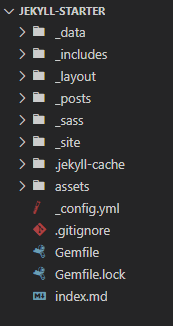
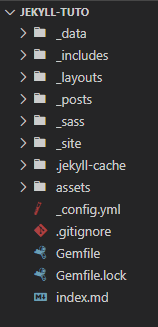
5 first tuto pages ok

diff --git a/_tutoriels/tuto4-layout.md b/_tutoriels/tuto4-layout.md
@@ -2,27 +2,47 @@
 layout: tutoriels
 title: Les layout
 ---
-# Créer son layout par défaut
+# Les layouts
 
-Dans votre dossier `_layout`, créez un fichier HTML que nous appellerons ici "default" (par défaut, en anglais) : `default.html`.
-Ce fichier nous permet de créer la **structure** de notre site, c'est pourquoi il est en HTML. Le contenu sera stocké dans des fichiers Markdown.
+Souvenez-vous, on a dit que Jekyll fonctionnait sur le principe de séparation du contenu et de la structure. Les layout sont du côté structure de la force ! Ce sont des fichiers HTML qui contiennent la structure des pages de votre site. 
 
-Le layout "default" contient les éléments de structure communs à toutes les pages de votre site (par exemple, le doctype, les scripts Bootstrap, etc.). 
+"Donc, j'ai trois pages dans mon site : l'accueil, les articles, à propos, j'aurai trois layouts ?". On pourrait. Mais, avouez-le, ce ne serait pas vraiment DRY tout cela. Dans chaque layout, il y a forcément quelques éléments répétés, à minima le doctype. Il vaut mieux donc créer un layout de base avec tous ces éléments communs :
 
-*insérer image doctype*
-On remarque que le lien interne pour le fichier style est un peu différent de ce que l'on a l'habitude de voir. En effet, pour pouvoir publier votre site sur Github Pages, vous devez utiliser des adresses relatives (relative url) pour vos liens internes, afin d'indiquer le chemin complet de vos différents fichiers. 
-Vous devez donc indiquer vos liens internes (vers vos images, vos scripts js, votre css...) ainsi :
-`<a href="{{ '/assets/css/styles.css' | relative_url }}">`
+[![code layout de base]({{ '/assets/images/capture_layoutbase.png' | relative_url }})]({{ '/assets/images/capture_layoutbase.png' | relative_url }})
 
-Et pour que Jekyll sache à quoi corresponde ce mystérieux "relative-url", il faut l'indiquer dans votre fichier `_config.ym` : 
-``` 
-baseurl: /nom-repository
-```  
+On remarque plusieurs choses ici :
 
-Par exemple, pour créer ce site, nous avons indiqué `baseurl: /jekyll-starter`.
+- Le lien interne pour le fichier style est un peu différent de ce que l'on a l'habitude de voir. En effet, pour pouvoir publier votre site sur Github Pages, vous devez utiliser des adresses relatives (relative url) pour vos liens internes, afin d'indiquer le chemin complet de vos différents fichiers. Vous devez donc indiquer vos liens internes (vers vos images, vos scripts js, votre css...) ainsi : 
 
-Oui, bon, c'est bien beau tout ça, mais comment je fais pour mettre du contenu dans mon site ???
+[![lien vers le fichier style]({{ '/assets/images/capture_relativeurl.png' | relative_url }})]({{ '/assets/images/capture_relativeurl.png' | relative_url }})
 
-Pas de panique Monique, Jekyll a tout prévu, il suffit d'ajouter {{ content }} là où vous souhaitez insérer du contenu (contenu qui sera récupéré... dans un fichier Markdown... Sorcellerie !).
+Et pour que Jekyll sache à quoi corresponde ce mystérieux "relative-url", il faut l'indiquer dans votre fichier `_config.ym` : `baseurl: /nom-repository`. Par exemple, pour créer ce site, nous avons indiqué :
 
-ajouter possibilité de faire des layout dans les layouts
+[![fichier config, base url]({{ '/assets/images/capture_configurl.png' | relative_url }})]({{ '/assets/images/capture_configurl.png' | relative_url }})
+
+
+- On remarque une seconde nouveauté :
+
+[![content]({{ '/assets/images/capture_content.png' | relative_url }})]({{ '/assets/images/capture_content.png' | relative_url }})
+
+Comme son nom l'indique, la balise `content` (contenu en français) permet d'indiquer où vous souhaitez insérer votre contenu dans cette page. Quand Jekyll compilera vos fichiers Markdown dans lesquels le layout de base est indiqué, le contenu prendra la place de cette balise. 
+
+Prenons un exemple. Voici à quoi peut ressembler le contenu de votre index (fichier Markdown, donc) :
+
+[![index]({{ '/assets/images/capture_index.png' | relative_url }})]({{ '/assets/images/capture_index.png' | relative_url }})
+
+Le layout de base est bien indiqué. Je lance le serveur pour que Jekyll compile ces fichiers. Dans le dossier `_site`, vous trouverez votre index compilé par Jekyll. Il s'est transformé en fichier HTML et a appliqué le layout `base` à votre contenu ! Magie !
+
+[![index compilé]({{ '/assets/images/capture_indexcompile.png' | relative_url }})]({{ '/assets/images/capture_indexcompile.png' | relative_url }})
+
+Vous pouvez utiliser des layouts dans les layouts (Inception !). Par exemple, pour notre site Jekyll, nous avons trois layouts :
+- le layout `base` (doctype, scripts, barre de navigation et footer).
+- le layout `default`, qui applique le layout base, mais ajoute dans le body une div dans laquelle s'insère le contenu :
+
+[![layout default]({{ '/assets/images/capture_layoutdefault.png' | relative_url }})]({{ '/assets/images/capture_layoutdefault.png' | relative_url }})
+
+- le layout `tutoriels`, qui applique le layout base, mais ajoute la div du body et le menu de navigation à droite :
+
+[![layout tutoriels]({{ '/assets/images/capture_layouttuto.png' | relative_url }})]({{ '/assets/images/capture_layouttuto.png' | relative_url }})
+
+Nous utilisons donc le layout `base` dans nos deux autres fichiers de layout. Dans les pages de notre site, nous utilisons soit le layout `tutoriels` (pour les pages du tutoriel), soit le layout `default` (pour les autres pages.)

diff --git a/_tutoriels/tuto5-includes.md b/_tutoriels/tuto5-includes.md
@@ -3,8 +3,42 @@ layout: default
 title: Les includes
 ---
 # Les includes
-Le but de Jekyll, souvenez-vous, c'est de séparer le maximum de responsabilités dans votre code. Il sépare donc le contenu de la structure, mais, au sein de la structure, on peut encore faire des séparations, et avoir un fichier HTML pour la structure du footer, un autre pour la structure de la barre de navigation, etc. Cela nous permet de retoucher plus facilement notre code (plus besoin de scroller pour retrouver quelques lignes de codes bien précises !).
+Le but de Jekyll, souvenez-vous, c'est de séparer le maximum de responsabilités dans votre code. Il sépare donc le contenu de la structure, mais, au sein de la structure, on peut encore faire des séparations, et avoir un fichier HTML pour la structure du footer, un autre pour la structure de la barre de navigation, etc. C'est un peu comme une recette : pour réaliser une pâte à crêpes, vous avez besoin d'oeufs, de farine, de bières (si si, c'est meilleur) et de lait. Chaque ingrédient correspond à un include : vous les ajouter au besoin pour réaliser votre recette. 
 
-Pour stocker ces bouts de code, utilisez votre dossier `_includes`. Vous pourrez ensuite les utiliser avec la commande Liquid suivante :
-Par exemple, sur ce site, nous avons dans notre arborescence les includes suivants :
-*insérer capture d'écran*.
+Les includes nous permettent de retoucher plus facilement notre code (plus besoin de scroller pendant des heures pour retrouver quelques lignes de codes bien précises !). De la même façon, si je veux changer de farine dans ma recette, je vais aller directement voir mon pot de farine dans mon placard (essayez de retrouvez votre farine mélangée dans votre pâte sinon !).
+
+Pour stocker ces bouts de code, utilisez votre placard à includes ! Le dossier `_includes`. Pour notre site, nous avons les includes suivants :
+
+[![dossier includes]({{ '/assets/images/capture_dossierincludes.png' | relative_url }})]({{ '/assets/images/capture_dossierincludes.png' | relative_url }})
+
+Vous pouvez remarquer qu'en plus de nos fichiers HTML, nous avons deux fichiers svg. Nous avons fait ce choix pour deux raisons :
+- Pour gagner de la place dans nos layouts (les fichiers svg ont tendance à s'étendre sur des lignes... et des lignes... et des lignes... et des lignes... );
+- Pour éviter de les manipuler par erreur quand on retouche nos layouts (une virgule mal placée et votre logo disparaît, et vous mettez des heures... et des heures... et des heures... et des heures... à trouver d'où vient l'erreur !).
+
+Ok, mais comment je fais pour assembler tout ça moi ? Ou pour dire que je veux tel include à tel endroit ? 
+
+Et bien, vous vous souvenez de la façon dont on a ajouté du contenu dans nos pages HTML ? C'est un peu le même principe pour les includes. Pour insérer la barre de navigation dans notre layout `base`, nous avons écrit : 
+
+[![insertion include]({{ '/assets/images/capture_include.png' | relative_url }})]({{ '/assets/images/capture_include.png' | relative_url }})
+
+Quand Jekyll compile nos fichiers, il sait qu'à cet endroit, il doit aller chercher l'include correspondant.
+
+Arrêtons-nous d'ailleurs un instant sur ces commandes avec des accolades et des pourcentages et tout le tralala. Pour faire toutes ces insertions, vous utilisez un autre langage, qui s'appelle [Liquid](https://shopify.github.io/liquid/basics/introduction/) (et oui, c'est la magie de Jekyll, on utilise tout un tas de langage sans même s'en apercevoir !). Liquid est un langage qui fonctionne avec des "tags" et des "filters". 
+
+Les tags sont entourés d'accolades et de pourcentages :
+
+[![tag Liquid]({{ '/assets/images/capture_tagliquid.png' | relative_url }})]({{ '/assets/images/capture_tagliquid.png' | relative_url }})
+
+Les filtres sont indiqué par un pipe (AltGr + 6) :
+
+[![filter Liquid]({{ '/assets/images/capture_liquidfilter.png' | relative_url }})]({{ '/assets/images/capture_liquidfilter.png' | relative_url }})
+
+
+
+
+
+
+
+
+
+

diff --git a/_tutoriels/tuto2-dossiers.md b/_tutoriels/tuto2-dossiers.md
@@ -4,7 +4,7 @@ title: Préparer un dossier
 ---
 # Préparer un beau dossier bien structuré
 Liste des dossiers et fichiers dont vous aurez besoin :
-- `_layout`
+- `_layouts`
 - `_includes`
 - `_data`
 - `_posts`
@@ -20,19 +20,20 @@ Liste des dossiers et fichiers dont vous aurez besoin :
 
 Votre dossier devrait donc ressembler à cela :
 
-![arborescence du dossier racine]({{ '/assets/images/capture_arborescence.png' | relative_url }})
+[![arborescence du dossier racine]({{ '/assets/images/capture_arborescence.png' | relative_url }})]({{ '/assets/images/capture_arborescence.png' | relative_url }})
 
 Dans le dossier `_sass`, créez un fichier `main.scss`. C'est dans ce fichier que vous pourrez écrire votre sass. Si vous utilisez plusieurs fichiers scss (par exemple, un fichier pour le body, un fichier pour la barre de navigation...), n'oubliez pas de tous les importer dans le fichier `styles.scss`.
 
-![arborescence du dossier _sass]({{ '/assets/images/capture_mainscss.png' | relative_url }})
+[![arborescence du dossier _sass]({{ '/assets/images/capture_mainscss.png' | relative_url }})]({{ '/assets/images/capture_mainscss.png' | relative_url }})
 
 Dans le dossier `assets/css`, créez un fichier `styles.scss`. C'est ce fichier que Jekyll compilera pour faire le css. Dans ce fichier, il faudra importer tout vos codes scss. N'oubliez pas d'écrire styleS (Jekyll et la nomeclature des fichiers...).
 
-![arborescence du dossier assets/css]({{ '/assets/images/capture_stylesscss.png' | relative_url }})
-![import main dans styles.scss]({{ '/assets/images/capture_importmain.png' | relative_url }})
+[![arborescence du dossier assets/css]({{ '/assets/images/capture_stylesscss.png' | relative_url }})]({{ '/assets/images/capture_stylesscss.png' | relative_url }})
+
+[![import main dans styles.scss]({{ '/assets/images/capture_importmain.png' | relative_url }})]({{ '/assets/images/capture_importmain.png' | relative_url }})
 
 
-**ATTENTION !** Dans le fichier `styles.scss`, n'oubliez pas d'ajouter le **Front Matter** :
+**ATTENTION !** Dans le fichier `styles.scss`, n'oubliez pas d'ajouter le **Front Matter**, indiqué par les deux lignes suivantes tout en haut du fichier  :
 ```
 ---
 ---
@@ -43,7 +44,7 @@ Dans votre dossier racine, créez un fichier txt `.gitignore`. Ce fichier servir
 - le dossier des [caches](https://www.youtube.com/watch?v=XoDY9vFAaG8) : `.jekyll-cache`
 - le dossier `_site`, car il ne s'agit pas du dossier où on travaille, mais du dossier où sont compilés nos fichiers de travail.
 
-![fichier gitignore]({{ '/assets/images/capture_gitignore.png' | relative_url }})
+[![fichier gitignore]({{ '/assets/images/capture_gitignore.png' | relative_url }})]({{ '/assets/images/capture_gitignore.png' | relative_url }})
 
 Vous aurez aussi sûrement besoin d'un fichier `_config.yml`, qu'il faut créer à la racine de votre dossier (comme le fichier `.gitignore`). Ce fichier nous servira, entre autres, pour créer des collections personnalisés (on en reparle un peu plus tard).
 

diff --git a/_tutoriels/tuto1-debut.md b/_tutoriels/tuto1-debut.md
@@ -9,20 +9,20 @@ Créez un dossier pour héberger le projet. Dans ce dossier, créez un fichier `
 Ouvrez le terminal (astuce : raccourci sur VSCode pour ouvrir le terminal : *ctrl + ù*).
 
 Dans le terminal :
-1. Tapez la commande `bundle init`.
+Tapez la commande `bundle init`.
 
-![ligne de commande bundle init]({{ '/assets/images/capture_bundle.png' | relative_url }}) 
+[![ligne de commande bundle init]({{ '/assets/images/capture_bundle.png' | relative_url }})]({{ '/assets/images/capture_bundle.png' | relative_url }}) 
 
-2. Editez le nouveau fichier `Gemfile` apparu à la racine de votre dossier : ajoutez `Gem "Jekyll"`.
+Editez le nouveau fichier `Gemfile` apparu à la racine de votre dossier : ajoutez `Gem "Jekyll"`.
 
-![arborescence du dossier]({{ '/assets/images/capture_gem.png' | relative_url }})
+[![arborescence du dossier]({{ '/assets/images/capture_gem.png' | relative_url }})]({{ '/assets/images/capture_gem.png' | relative_url }})
 
-![fichier gem ouvert dans VSCode]({{ '/assets/images/capture_gem_file.png' | relative_url }})
+[![fichier gem ouvert dans VSCode]({{ '/assets/images/capture_gem_file.png' | relative_url }})]({{ '/assets/images/capture_gem_file.png' | relative_url }})
 
 
-3. Dans le terminal, tapez la commande `jekyll serve` : Jekyll se met en marche et commence à compiler vos fichiers !
+Dans le terminal, tapez la commande `jekyll serve` : Jekyll se met en marche et commence à compiler vos fichiers !
 
-![commande Jekyll serve]({{ '/assets/images/capture_jekyll-serve.png' | relative_url }})
+[![commande Jekyll serve]({{ '/assets/images/capture_jekyll-serve.png' | relative_url }})]({{ '/assets/images/capture_jekyll-serve.png' | relative_url }})
 
 Jekyll compile vos fichiers dans un dossier `_site` généré automatiquement lorsque vous lancez la compilation. 
 Jekyll génére également automatiquement un dossier `.jekyll-cache`.

diff --git a/_tutoriels/tuto3-frontmatter.md b/_tutoriels/tuto3-frontmatter.md
@@ -12,3 +12,20 @@ FRONT MATTER ICI
 Le Front Matter permet à Jekyll :
 - de savoir quels fichiers il doit compiler
 - de stocker des variables prédéfinies.
+
+Par exemple, pour cette page, nous avons le Front Matter suivant :
+
+[![front matter de la page]({{ '/assets/images/capture_frontmatter.png' | relative_url }})]({{ '/assets/images/capture_frontmatter.png' | relative_url }})
+
+Ce Front Matter contient deux informations (ou variables) que nous avons définies pour les besoins du site :
+- le layout (on en parle juste après)
+- le titre que nous souhaitons donner à la page.
+
+On ne dirait pas comme ça, mais le Front Matter n'est pas écrit en Markdown, il est écrit en YAML. C'est un langage utilisé pour écrire les fichiers qui concerne les données (le fichier `_config.yml` et les fichiers contenus dans notre dossier `_data`).
+
+Ok, et donc, stocker ces variables, ça sert à... ? A pouvoir les réutiliser facilement quand on en aura besoin ! Pour afficher le titre de la page (et ce, peu importe la page affichée), on pourra indiquer :
+
+[![commande liquide page.title]({{ '/assets/images/capture_liquid.png' | relative_url }})]({{ '/assets/images/capture_liquid.png' | relative_url }})
+
+Cela sera très pratique quand vous aurez besoin de faire des boucles et des conditions.
+
